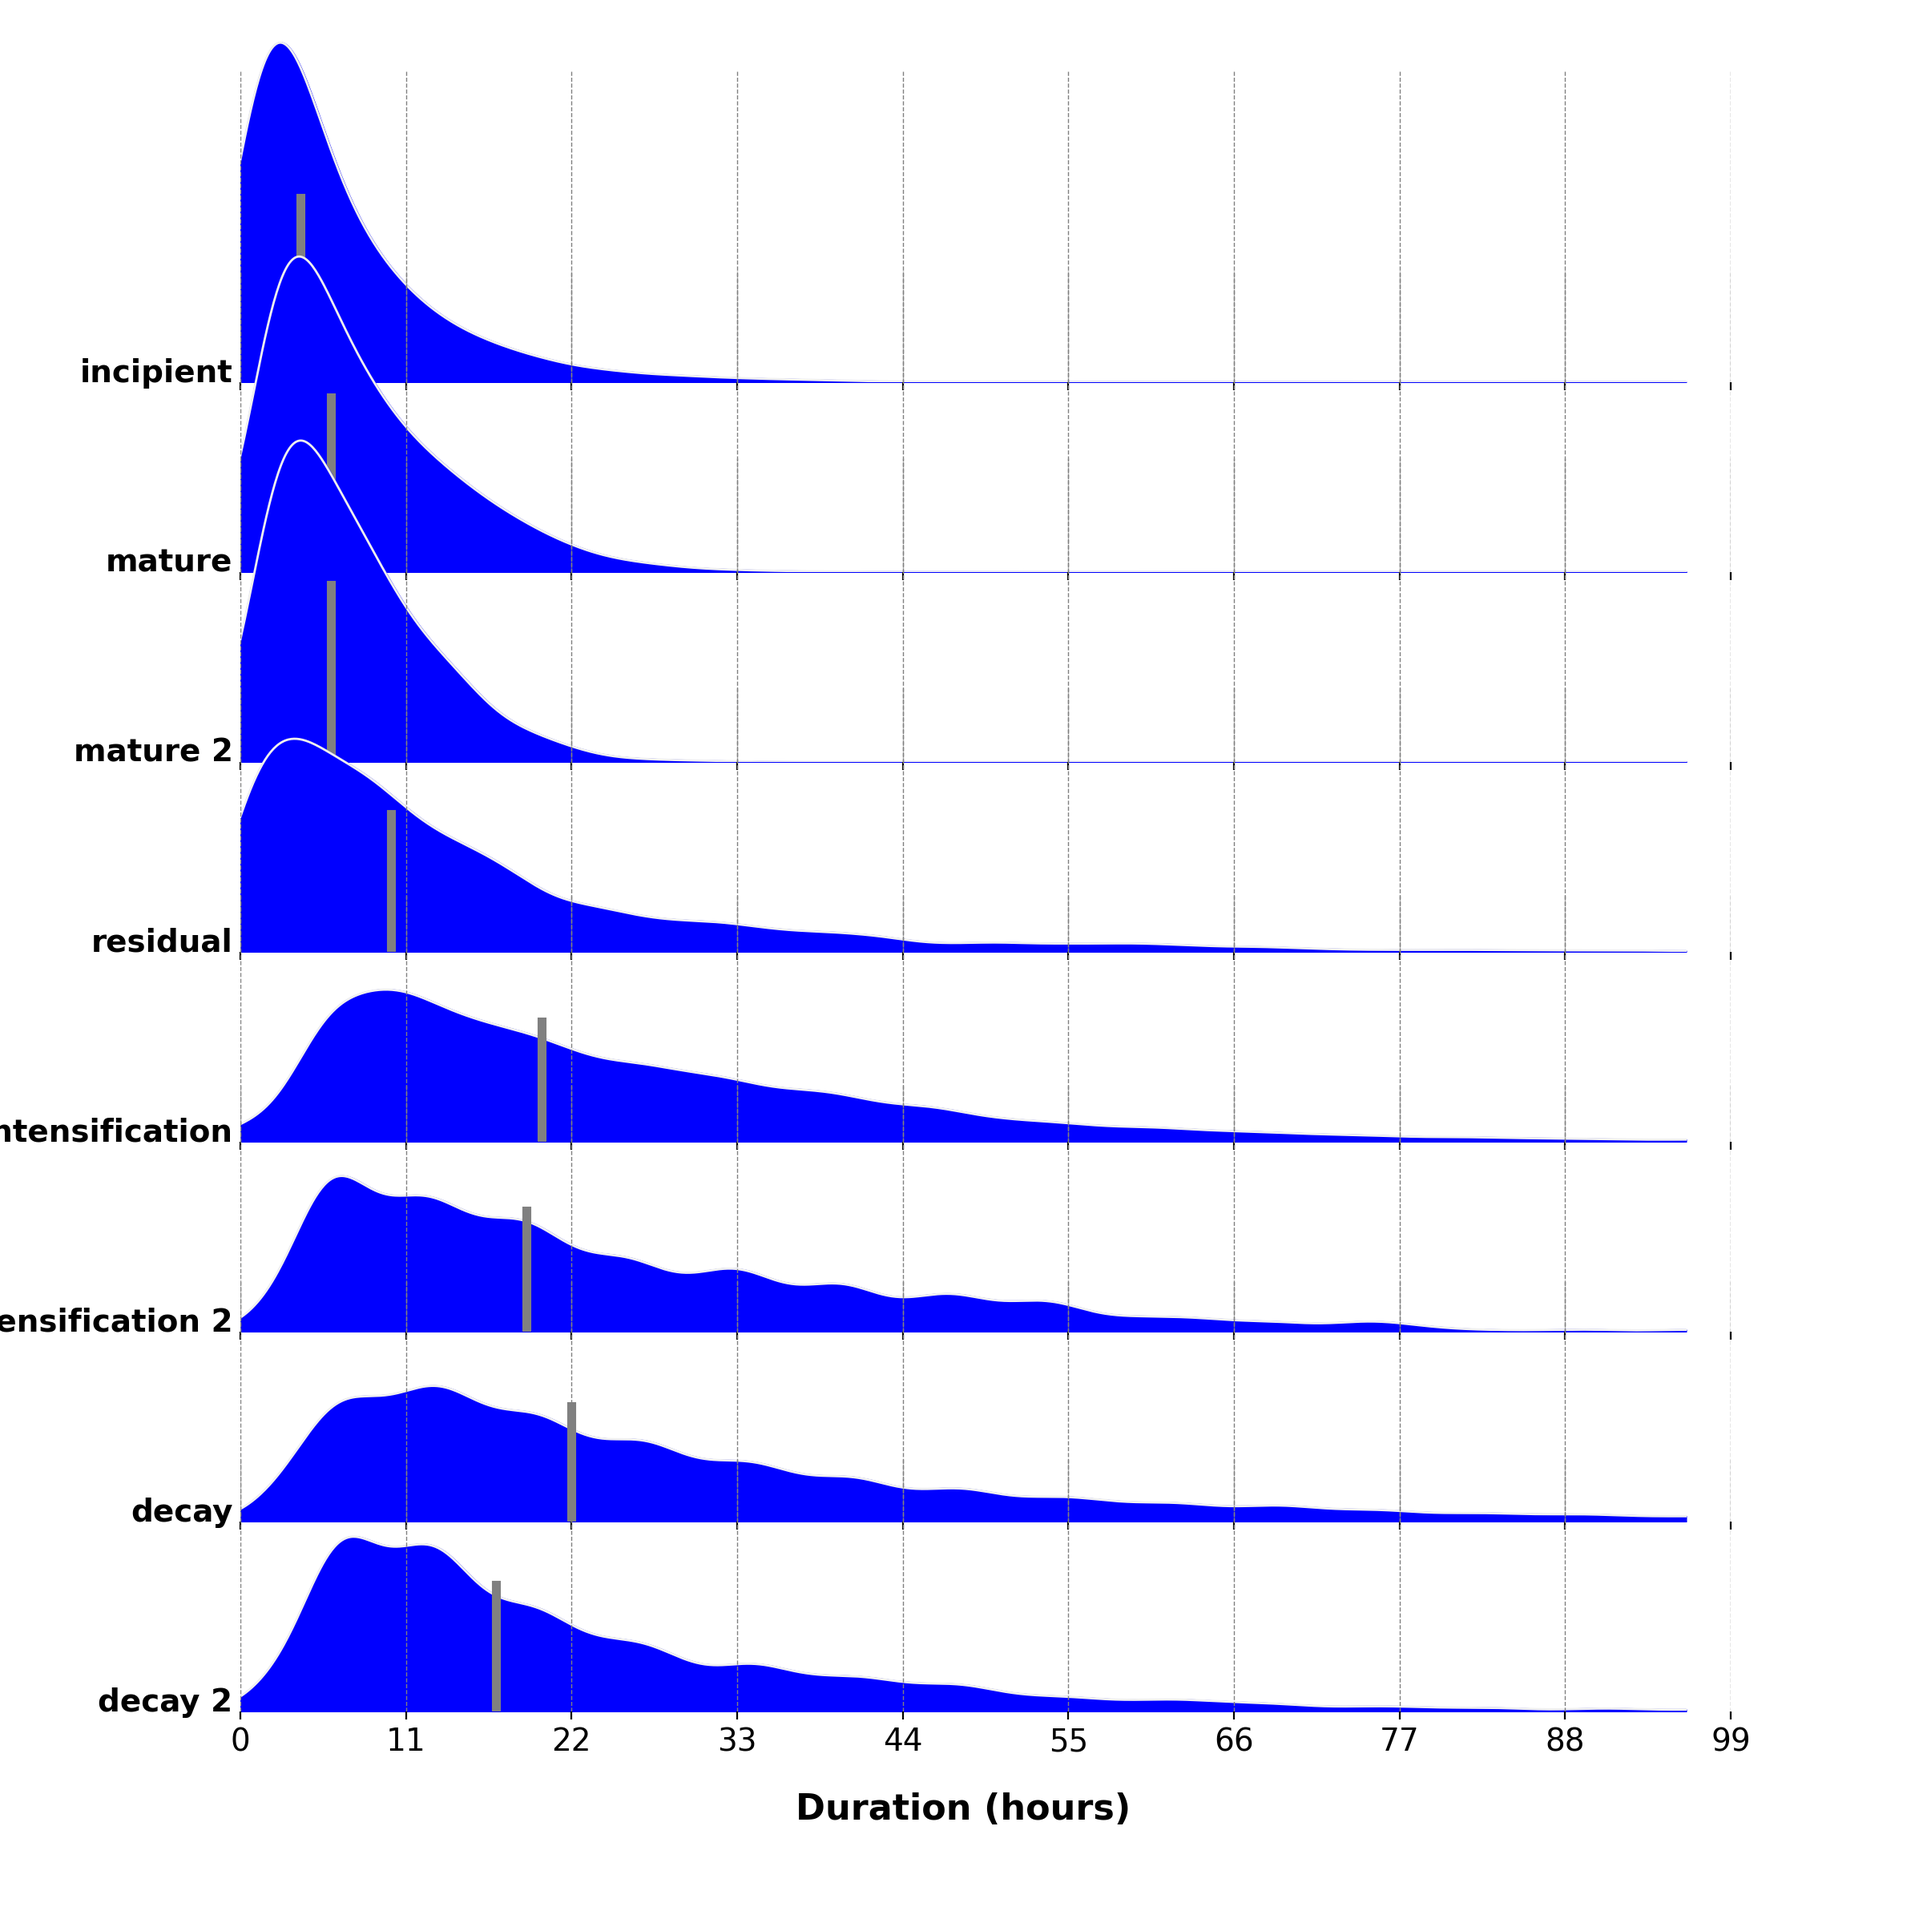
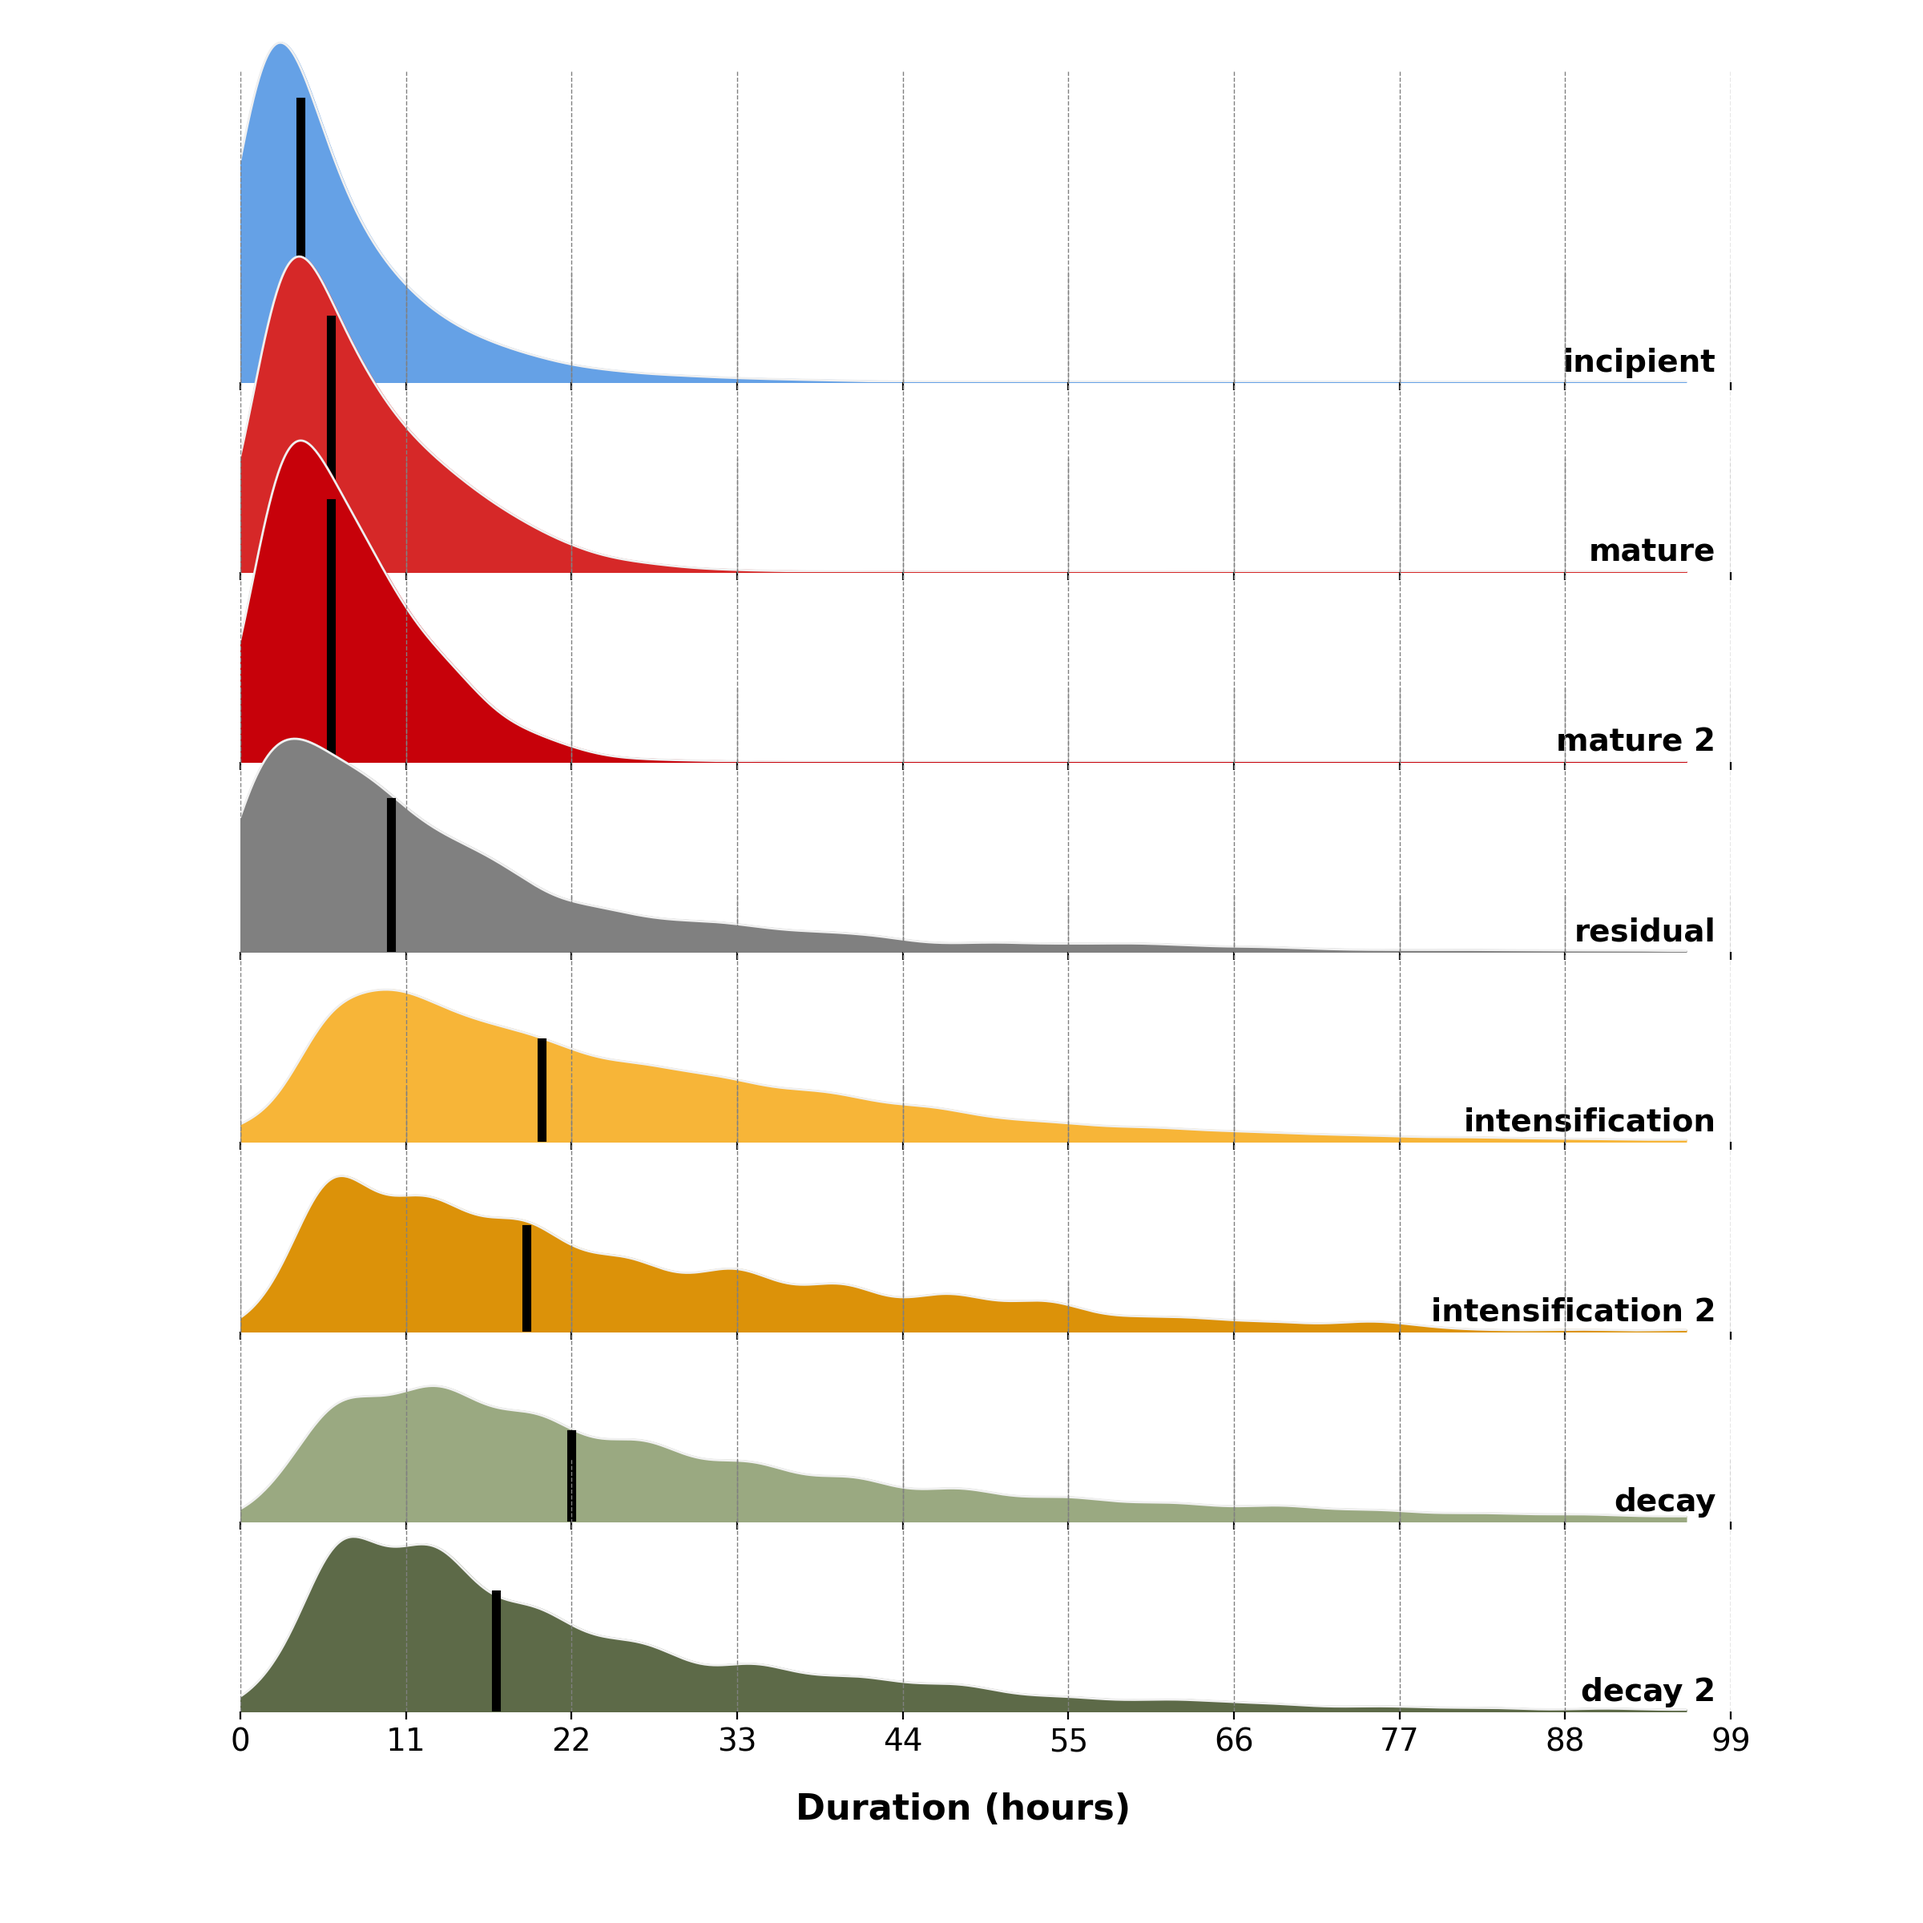
Plotting ridges for each phase

diff --git a/src_manuscript_life-cycle/pdf_phase_time.py b/src_manuscript_life-cycle/pdf_phase_time.py
@@ -233,20 +233,26 @@ def plot_ridge_phases(data):
 
     phases = ['incipient', 'mature', 'mature 2', 'residual',
               'intensification',  'intensification 2', 'decay', 'decay 2']
+    
+    colors_phases = {'incipient': '#65a1e6',
+                     'intensification': '#f7b538',
+                     'intensification 2': '#dc9209',
+                     'mature': '#d62828',
+                     'mature 2': '#c7010a',
+                     'decay': '#9aa981',
+                     'decay 2': '#5d6a48',
+                     'residual': 'gray'}
 
     duration = data['Duration (hours)']
     
     gs = grid_spec.GridSpec(len(phases), 1)
     fig = plt.figure(figsize=(12, len(phases) * 1.5))  # Adjusted figure height based on number of phases
 
-    upper_percentile = np.percentile(duration, 99) 
     # Set the x-axis limits based on the percentiles
+    upper_percentile = np.percentile(duration, 99) 
     xmin, xmax = 0, upper_percentile
     
     x_d = np.linspace(xmin, xmax, 1000)
-
-    red_shades = ['#9d0208', '#b30109', '#c7010a', '#d9000b', '#dc2f02', '#e14c03', '#e56904', '#ff9066']
-    blue_shades = ['#023e8a', '#0251a0', '#0264b6', '#0077b6', '#0091c3', '#00abd0', '#00c5dd', '#48cae4']
 
     for idx, phase in enumerate(phases):
         phase_data = data[data['Phase'] == phase]
@@ -258,8 +264,9 @@ def plot_ridge_phases(data):
         ax = fig.add_subplot(gs[idx:idx+1, 0])
 
         logprob = kde.score_samples(x_d[:, None])
+
         ax.plot(x_d, np.exp(logprob), color="#f0f0f0", lw=1, linestyle='-')
-        ax.fill_between(x_d, np.exp(logprob), alpha=1, color='b', linestyle='-')
+        ax.fill_between(x_d, np.exp(logprob), alpha=1, color=colors_phases[phase], linestyle='-')
         
         # setting uniform x and y lims
         ax.set_xlim(xmin, xmax)
@@ -293,8 +300,11 @@ def plot_ridge_phases(data):
         meadian_value = np.median(x)
 
         # Draw a vertical line at the mean value
-        ax.axvline(x=meadian_value, ymin=0, ymax=np.exp(logprob).max() + 0.08,
-                            color='grey', linestyle='-', linewidth=4, label="Median")
+        max_kde_value = np.exp(logprob).max()
+        ymax_fraction = 2.8
+        ymax_value = max_kde_value * ymax_fraction
+        ax.axvline(x=meadian_value, ymin=0, ymax=ymax_value,
+                        color='k', linestyle='-', linewidth=4, label="Median")
 
         spines = ["top", "right", "left", "bottom"]
         for s in spines:
@@ -305,7 +315,8 @@ def plot_ridge_phases(data):
         else:
             ax.tick_params(axis='x', labelsize=14)
 
-        ax.text(-0.5, 0, phase, fontweight="bold", fontsize=14, ha="right")
+        ax.text(0.99, 0.01, phase, fontweight="bold", fontsize=14,
+                 ha="right", transform=ax.transAxes)
 
     ax.text((xmax - xmin) / 2, np.exp(logprob).min() - 0.025,
             'Duration (hours)', ha='center', fontsize=16, fontweight="bold")
